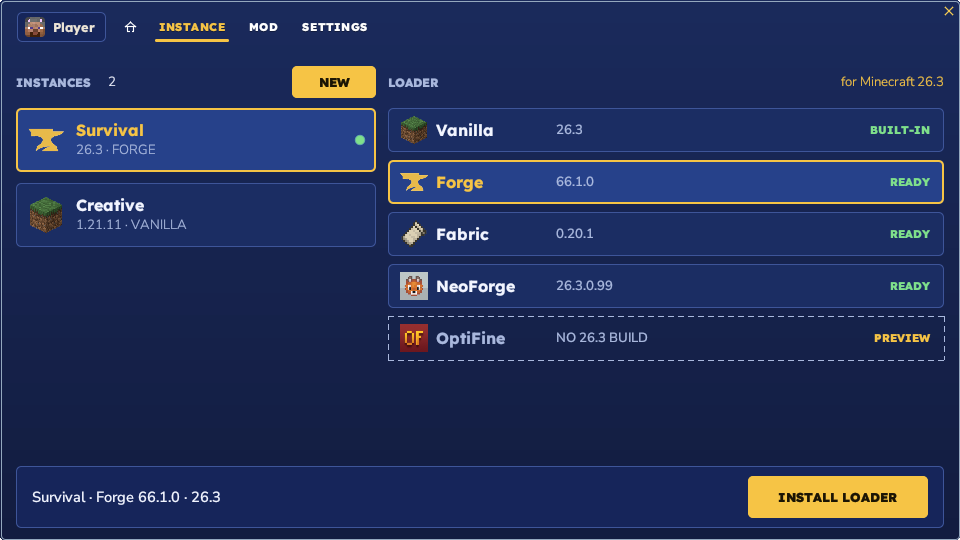
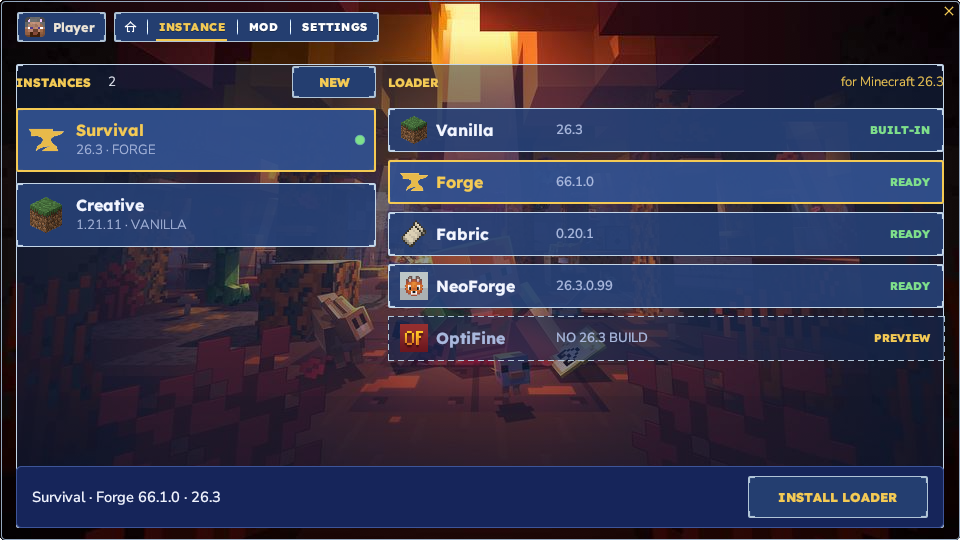
Release 0.2.21 with the Rus look on the new Instance and Mod layout.
Wallpaper, gold, and the blue chips stay in front. The two-column pages stay.

diff --git a/src/desktop.rs b/src/desktop.rs
@@ -28,7 +28,7 @@ const MUTED: egui::Color32 = egui::Color32::from_rgb(0xB4, 0xC2, 0xD4);
 const ACCENT: egui::Color32 = egui::Color32::from_rgb(0x3B, 0x82, 0xF6);
 const ON_ACCENT: egui::Color32 = egui::Color32::WHITE;
 const GOLD: egui::Color32 = egui::Color32::from_rgb(0xF4, 0xCA, 0x54);
-const SPEC_YELLOW: egui::Color32 = egui::Color32::from_rgb(0xF6, 0xC4, 0x45);
+const SPEC_YELLOW: egui::Color32 = GOLD;
 const SPEC_TEXT: egui::Color32 = egui::Color32::from_rgb(0xF2, 0xF5, 0xFF);
 const SPEC_MUTED: egui::Color32 = egui::Color32::from_rgb(0xA9, 0xB8, 0xDD);
 const SPEC_GREEN: egui::Color32 = egui::Color32::from_rgb(0x7F, 0xE0, 0x8B);
@@ -817,9 +817,6 @@ impl Desktop {
         let full = ui.max_rect();
         let _ = ui.allocate_rect(full, Sense::hover());
         self.paint_wallpaper(ui, full);
-        if self.tab == Tab::Versions || self.tab == Tab::Mods {
-            paint_spec_page(ui.painter(), full);
-        }
         // Drag only the empty strip above the tabs. A full-window drag was
         // stealing clicks, so the pointer had to sit above the button.
         if !self.draft_open {
@@ -890,12 +887,13 @@ impl Desktop {
         }
         let total: f32 = widths.iter().sum();
         let bar = egui::Rect::from_min_size(egui::pos2(left, uy(full, 16.0)), egui::vec2(total, h));
+        paint_hytale_bar(ui.painter(), bar);
         let mut x = bar.left();
         for (i, tab) in tabs.into_iter().enumerate() {
             let rect = egui::Rect::from_min_size(egui::pos2(x, bar.top()), egui::vec2(widths[i], h));
             let hit = ui.interact(rect, egui::Id::new("hynav").with(tab.label()), Sense::click());
             let on = self.tab == tab;
-            let color = if on { SPEC_YELLOW } else { egui::Color32::WHITE };
+            let color = if on { GOLD } else { egui::Color32::WHITE };
             if tab == Tab::Home {
                 paint_nav_house(ui.painter(), rect.center(), h * 0.28, color);
             } else {
@@ -916,16 +914,25 @@ impl Desktop {
             }
             if on {
                 let underline = egui::Rect::from_min_max(
-                    egui::pos2(rect.left() + 8.0, rect.bottom() - 3.0),
-                    egui::pos2(rect.right() - 8.0, rect.bottom()),
+                    egui::pos2(rect.left() + 10.0, rect.bottom() - 3.0),
+                    egui::pos2(rect.right() - 10.0, rect.bottom() - 1.0),
                 );
-                ui.painter().rect_filled(underline, 1.0, SPEC_YELLOW);
+                ui.painter().rect_filled(underline, 0.0, GOLD);
             }
             if hit.clicked() {
                 self.tab = tab;
             }
             hit.on_hover_text(tab.label());
             x += widths[i];
+        }
+        let sep_h = us(full, 52.0) * 0.44;
+        let fg = ui.ctx().layer_painter(egui::LayerId::new(egui::Order::Tooltip, egui::Id::new("tab-seps")));
+        let mut sx = bar.left();
+        for (i, width) in widths.iter().enumerate() {
+            if i > 0 {
+                paint_tab_sep(&fg, sx, bar.center().y - sep_h * 0.5, sep_h);
+            }
+            sx += width;
         }
         bar
     }
@@ -1031,8 +1038,7 @@ impl Desktop {
             egui::pos2(ux(full, 22.0), uy(full, 16.0)),
             egui::vec2(pad + head_s + 8.0 + text_w + 12.0, h),
         );
-        ui.painter().rect_filled(bar, 5.0, SPEC_PANEL);
-        ui.painter().rect_stroke(bar, 5.0, egui::Stroke::new(1.0, SPEC_EDGE), egui::StrokeKind::Inside);
+        paint_hytale_bar(ui.painter(), bar);
         let head = egui::Rect::from_center_size(
             egui::pos2(bar.left() + pad + head_s * 0.5, bar.center().y),
             egui::vec2(head_s, head_s),
@@ -1418,6 +1424,7 @@ impl Desktop {
 
     fn paint_version_page(&mut self, ui: &mut egui::Ui, full: egui::Rect) {
         let content = spec_content(full);
+        paint_blend_stage(ui.painter(), content);
         let left = egui::Rect::from_min_size(content.min, egui::vec2(360.0, content.height() - 72.0));
         let right = egui::Rect::from_min_max(
             egui::pos2(left.right() + 12.0, content.top()),
@@ -1448,7 +1455,7 @@ impl Desktop {
 
     fn paint_instance_column(&mut self, ui: &mut egui::Ui, col: egui::Rect) {
         let head = egui::Rect::from_min_size(col.min, egui::vec2(col.width(), 36.0));
-        ui.painter().text(head.left_center(), egui::Align2::LEFT_CENTER, "INSTANCES", nav_font(12.0), SPEC_MUTED);
+        ui.painter().text(head.left_center(), egui::Align2::LEFT_CENTER, "INSTANCES", nav_font(12.0), GOLD);
         let count = format!("{}", self.instances.len());
         ui.painter().text(egui::pos2(head.left() + 92.0, head.center().y), egui::Align2::LEFT_CENTER, &count, sub_font(13.0), SPEC_TEXT);
         let new_btn = egui::Rect::from_min_size(egui::pos2(head.right() - 84.0, head.top() + 2.0), egui::vec2(84.0, 32.0));
@@ -1499,7 +1506,7 @@ impl Desktop {
 
     fn paint_loader_column(&mut self, ui: &mut egui::Ui, col: egui::Rect) {
         let head = egui::Rect::from_min_size(col.min, egui::vec2(col.width(), 36.0));
-        ui.painter().text(head.left_center(), egui::Align2::LEFT_CENTER, "LOADER", nav_font(12.0), SPEC_MUTED);
+        ui.painter().text(head.left_center(), egui::Align2::LEFT_CENTER, "LOADER", nav_font(12.0), GOLD);
         let for_mc = format!("for Minecraft {}", if self.selected.is_empty() { "26.3" } else { self.selected.as_str() });
         ui.painter().text(head.right_center(), egui::Align2::RIGHT_CENTER, &for_mc, sub_font(13.0), SPEC_YELLOW);
         let list = egui::Rect::from_min_max(egui::pos2(col.left(), head.bottom() + 8.0), col.right_bottom());
@@ -1520,7 +1527,8 @@ impl Desktop {
             let missing = matches!(row.kind, crate::loaders::Badge::Preview) && row.version.is_empty();
             let on = self.loader_active(row.id);
             if missing {
-                paint_dashed_rect(ui.painter(), rect, SPEC_MUTED);
+                ui.painter().rect_filled(rect, 1.5, egui::Color32::from_rgba_unmultiplied(20, 34, 62, 150));
+                paint_dashed_rect(ui.painter(), rect, egui::Color32::from_rgb(176, 196, 214));
             } else {
                 spec_card(ui.painter(), rect, on);
             }
@@ -1576,6 +1584,7 @@ impl Desktop {
 
     fn paint_mods_page(&mut self, ui: &mut egui::Ui, full: egui::Rect) {
         let content = spec_content(full);
+        paint_blend_stage(ui.painter(), content);
         let right = egui::Rect::from_min_max(egui::pos2(content.right() - 290.0, content.top()), content.right_bottom());
         let left = egui::Rect::from_min_max(content.left_top(), egui::pos2(right.left() - 12.0, content.bottom()));
         spec_panel(ui.painter(), left);
@@ -4059,29 +4068,26 @@ fn spec_content(full: egui::Rect) -> egui::Rect {
     egui::Rect::from_min_max(egui::pos2(16.0, 64.0), egui::pos2(full.right() - 16.0, full.bottom() - 12.0))
 }
 
-fn paint_spec_page(painter: &egui::Painter, rect: egui::Rect) {
-    paint_vgradient(
-        painter,
-        rect,
-        0.0,
-        egui::Color32::from_rgb(0x1A, 0x2A, 0x5C),
-        egui::Color32::from_rgb(0x12, 0x1C, 0x3F),
-    );
+fn paint_blend_stage(painter: &egui::Painter, rect: egui::Rect) {
+    painter.rect_filled(rect, 1.5, egui::Color32::from_rgba_unmultiplied(18, 32, 58, 118));
+    paint_open_frame(painter, rect);
 }
 
 fn spec_panel(painter: &egui::Painter, rect: egui::Rect) {
-    painter.rect_filled(rect, 6.0, SPEC_PANEL);
-    painter.rect_stroke(rect, 6.0, egui::Stroke::new(1.0, SPEC_EDGE), egui::StrokeKind::Inside);
+    painter.rect_filled(rect, 1.5, egui::Color32::from_rgba_unmultiplied(28, 48, 88, 196));
+    paint_open_frame(painter, rect);
 }
 
 fn spec_card(painter: &egui::Painter, rect: egui::Rect, selected: bool) {
-    painter.rect_filled(rect, 5.0, if selected { SPEC_SEL } else { SPEC_ITEM });
-    painter.rect_stroke(
-        rect,
-        5.0,
-        egui::Stroke::new(if selected { 2.0 } else { 1.0 }, if selected { SPEC_YELLOW } else { SPEC_EDGE }),
-        egui::StrokeKind::Inside,
-    );
+    let fill = if selected {
+        egui::Color32::from_rgba_unmultiplied(48, 78, 138, 236)
+    } else {
+        egui::Color32::from_rgba_unmultiplied(36, 62, 112, 226)
+    };
+    let edge = if selected { GOLD } else { egui::Color32::from_rgb(196, 214, 232) };
+    painter.rect_filled(rect, 1.5, fill);
+    painter.rect_stroke(rect, 1.5, egui::Stroke::new(if selected { 2.0 } else { 1.0 }, edge), egui::StrokeKind::Inside);
+    paint_corner_caps(painter, rect, edge);
 }
 
 fn paint_check(painter: &egui::Painter, rect: egui::Rect, on: bool) {
@@ -4134,16 +4140,20 @@ fn classify_drop(path: &std::path::Path) -> u8 {
 
 fn spec_button(ui: &mut egui::Ui, rect: egui::Rect, label: &str, primary: bool) -> bool {
     let hit = ui.interact(rect, egui::Id::new("spec-btn").with(rect.top().to_bits()).with(rect.left().to_bits()).with(label), Sense::click());
-    let fill = if primary { SPEC_YELLOW } else if hit.hovered() { SPEC_SEL } else { SPEC_ITEM };
-    let edge = if primary { SPEC_YELLOW } else { SPEC_EDGE };
-    ui.painter().rect_filled(rect, 5.0, fill);
-    ui.painter().rect_stroke(rect, 5.0, egui::Stroke::new(1.0, edge), egui::StrokeKind::Inside);
+    if primary {
+        paint_hytale_bar(ui.painter(), rect);
+    } else if hit.hovered() {
+        ui.painter().rect_filled(rect, 1.5, egui::Color32::from_rgba_unmultiplied(48, 78, 138, 236));
+        paint_open_frame(ui.painter(), rect);
+    } else {
+        paint_element_template(ui.painter(), rect);
+    }
     ui.painter().text(
         rect.center(),
         egui::Align2::CENTER_CENTER,
         label,
         nav_font(13.0),
-        if primary { egui::Color32::from_rgb(0x1A, 0x14, 0x04) } else { SPEC_TEXT },
+        if primary { GOLD } else { egui::Color32::from_rgb(255, 246, 226) },
     );
     if hit.hovered() {
         ui.ctx().set_cursor_icon(CursorIcon::PointingHand);

diff --git a/README.md b/README.md
@@ -124,8 +124,8 @@ Linux sandbox: `apt install bubblewrap`. Without it, the client still gets a pri
 
 | Platform | File |
 | --- | --- |
-| Linux x86-64 | [rus-linux-x86_64](https://github.com/obsifox/rus/releases/download/0.2.20/rus-linux-x86_64) |
-| Windows x64 | [rus-windows-x64.exe](https://github.com/obsifox/rus/releases/download/0.2.20/rus-windows-x64.exe) |
+| Linux x86-64 | [rus-linux-x86_64](https://github.com/obsifox/rus/releases/download/0.2.21/rus-linux-x86_64) |
+| Windows x64 | [rus-windows-x64.exe](https://github.com/obsifox/rus/releases/download/0.2.21/rus-windows-x64.exe) |
 
 Linux:
 
